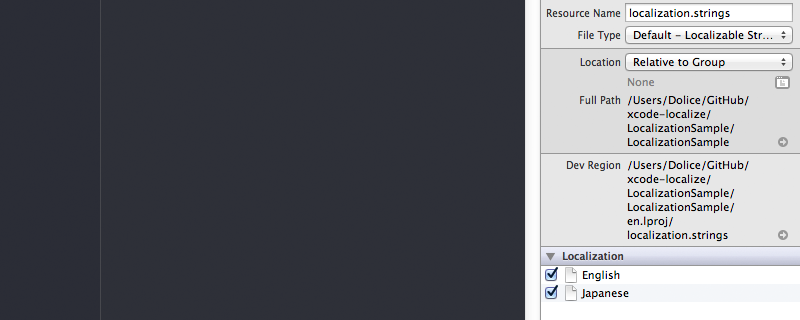
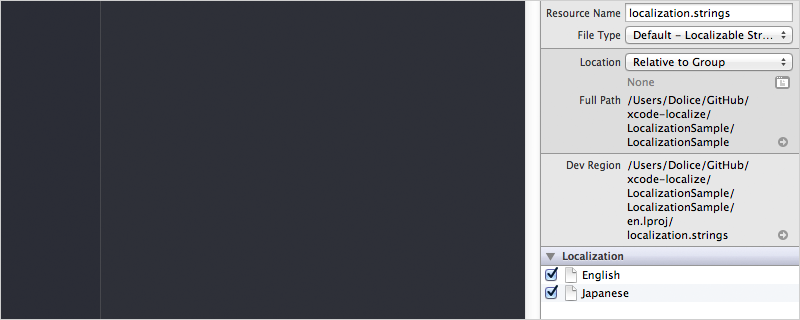
Site updated at 2013-04-17 03:37:56 UTC

Changed region(s): [[0.9688, 0.9688, 1.0, 1.0], [0.0, 0.9688, 0.0312, 1.0], [0.0, 0.0, 0.0312, 0.0312]]

diff --git a/blog/2013/04/17/xcode-localize/index.html b/blog/2013/04/17/xcode-localize/index.html
@@ -101,43 +101,43 @@
 
 <h3>1. PROJECT -> info -> Localizationsの項目に Japaniese (jaを追加する)</h3>
 
-<p><img src="http://lab.dolice.net/images/article/localize/screenshot1.png" title="1. PROJECT -&gt; info -&gt; Localizationsの項目に Japaniese (jaを追加する)" alt="1. PROJECT -&gt; info -&gt; Localizationsの項目に Japaniese (jaを追加する)" /></p>
+<p><img src="/images/article/localize/screenshot1.png" title="1. PROJECT -&gt; info -&gt; Localizationsの項目に Japaniese (jaを追加する)" alt="1. PROJECT -&gt; info -&gt; Localizationsの項目に Japaniese (jaを追加する)" /></p>
 
 <h3>2. MainStoryboard.storyboardと InfoPlist.stringsにチェックを入れて Finishを選択</h3>
 
-<p><img src="/images/article/localize/screenshot2.png" title="2. MainStoryboard.storyboardと InfoPlist.stringsにチェックを入れて Finishを選択" alt="" /></p>
+<p><img src="/images/article/localize/screenshot2.png" title="2. MainStoryboard.storyboardと InfoPlist.stringsにチェックを入れて Finishを選択" alt="2. MainStoryboard.storyboardと InfoPlist.stringsにチェックを入れて Finishを選択" /></p>
 
 <h3>3. MainStoryboardが複製され、Japaniese/Englishの2つに分かれました</h3>
 
-<p><img src="http://lab.dolice.net/images/article/localize/screenshot3.png" title="3. MainStoryboardが複製され、Japaniese/Englishの2つに分かれました" alt="" /></p>
+<p><img src="/images/article/localize/screenshot3.png" title="3. MainStoryboardが複製され、Japaniese/Englishの2つに分かれました" alt="3. MainStoryboardが複製され、Japaniese/Englishの2つに分かれました" /></p>
 
 <h3>4. Strings Filesを新規作成します</h3>
 
-<p><img src="http://lab.dolice.net/images/article/localize/screenshot4.png" title="4. Strings Filesを新規作成します" alt="" /></p>
+<p><img src="/images/article/localize/screenshot4.png" title="4. Strings Filesを新規作成します" alt="4. Strings Filesを新規作成します" /></p>
 
 <h3>5. ファイル名を「Localizable.strings」にします</h3>
 
-<p><img src="http://lab.dolice.net/images/article/localize/screenshot5.png" title="5. ファイル名を「Localizable.strings」にします" alt="" /></p>
+<p><img src="/images/article/localize/screenshot5.png" title="5. ファイル名を「Localizable.strings」にします" alt="5. ファイル名を「Localizable.strings」にします" /></p>
 
 <h3>6. 作成した Localizable.stringsファイルを選択し、「Localize…」ボタンを押します</h3>
 
-<p><img src="http://lab.dolice.net/images/article/localize/screenshot6.png" title="6. 作成した Localizable.stringsファイルを選択し、「Localize…」ボタンを押します" alt="" /></p>
+<p><img src="/images/article/localize/screenshot6.png" title="6. 作成した Localizable.stringsファイルを選択し、「Localize…」ボタンを押します" alt="6. 作成した Localizable.stringsファイルを選択し、「Localize…」ボタンを押します" /></p>
 
 <h3>7. English/Japanieseの両方にチェックを入れます</h3>
 
-<p><img src="http://lab.dolice.net/images/article/localize/screenshot7.png" title="7. English/Japanieseの両方にチェックを入れます" alt="" /></p>
+<p><img src="/images/article/localize/screenshot7.png" title="7. English/Japanieseの両方にチェックを入れます" alt="7. English/Japanieseの両方にチェックを入れます" /></p>
 
 <h3>8. Localizable.stringsファイルに各国の単語を定義します</h3>
 
-<p><img src="http://lab.dolice.net/images/article/localize/screenshot8.png" title="8. Localizable.stringsファイルに各国の単語を定義します" alt="" /></p>
+<p><img src="/images/article/localize/screenshot8.png" title="8. Localizable.stringsファイルに各国の単語を定義します" alt="8. Localizable.stringsファイルに各国の単語を定義します" /></p>
 
 <h3>9. アプリ名とアプリアイコンの下に表示される名前を指定することも出来ます</h3>
 
-<p><img src="http://lab.dolice.net/images/article/localize/screenshot9.png" title="9. アプリ名とアプリアイコンの下に表示される名前を指定することも出来ます" alt="" /></p>
+<p><img src="/images/article/localize/screenshot9.png" title="9. アプリ名とアプリアイコンの下に表示される名前を指定することも出来ます" alt="9. アプリ名とアプリアイコンの下に表示される名前を指定することも出来ます" /></p>
 
 <h3>10. 「NSLocalizedStrings」にキーワードを指定すると、各国語に対応した単語が表示されます</h3>
 
-<p><img src="http://lab.dolice.net/images/article/localize/screenshot10.png" title="10. 「NSLocalizedStrings」にキーワードを指定すると、各国語に対応した単語が表示されます" alt="" /></p>
+<p><img src="/images/article/localize/screenshot10.png" title="10. 「NSLocalizedStrings」にキーワードを指定すると、各国語に対応した単語が表示されます" alt="10. 「NSLocalizedStrings」にキーワードを指定すると、各国語に対応した単語が表示されます" /></p>
 
 <h2>ソースコード</h2>
 

diff --git a/index.html b/index.html
@@ -109,43 +109,43 @@
 
 <h3>1. PROJECT -> info -> Localizationsの項目に Japaniese (jaを追加する)</h3>
 
-<p><img src="http://lab.dolice.net/images/article/localize/screenshot1.png" title="1. PROJECT -&gt; info -&gt; Localizationsの項目に Japaniese (jaを追加する)" alt="1. PROJECT -&gt; info -&gt; Localizationsの項目に Japaniese (jaを追加する)" /></p>
+<p><img src="/images/article/localize/screenshot1.png" title="1. PROJECT -&gt; info -&gt; Localizationsの項目に Japaniese (jaを追加する)" alt="1. PROJECT -&gt; info -&gt; Localizationsの項目に Japaniese (jaを追加する)" /></p>
 
 <h3>2. MainStoryboard.storyboardと InfoPlist.stringsにチェックを入れて Finishを選択</h3>
 
-<p><img src="/images/article/localize/screenshot2.png" title="2. MainStoryboard.storyboardと InfoPlist.stringsにチェックを入れて Finishを選択" alt="" /></p>
+<p><img src="/images/article/localize/screenshot2.png" title="2. MainStoryboard.storyboardと InfoPlist.stringsにチェックを入れて Finishを選択" alt="2. MainStoryboard.storyboardと InfoPlist.stringsにチェックを入れて Finishを選択" /></p>
 
 <h3>3. MainStoryboardが複製され、Japaniese/Englishの2つに分かれました</h3>
 
-<p><img src="http://lab.dolice.net/images/article/localize/screenshot3.png" title="3. MainStoryboardが複製され、Japaniese/Englishの2つに分かれました" alt="" /></p>
+<p><img src="/images/article/localize/screenshot3.png" title="3. MainStoryboardが複製され、Japaniese/Englishの2つに分かれました" alt="3. MainStoryboardが複製され、Japaniese/Englishの2つに分かれました" /></p>
 
 <h3>4. Strings Filesを新規作成します</h3>
 
-<p><img src="http://lab.dolice.net/images/article/localize/screenshot4.png" title="4. Strings Filesを新規作成します" alt="" /></p>
+<p><img src="/images/article/localize/screenshot4.png" title="4. Strings Filesを新規作成します" alt="4. Strings Filesを新規作成します" /></p>
 
 <h3>5. ファイル名を「Localizable.strings」にします</h3>
 
-<p><img src="http://lab.dolice.net/images/article/localize/screenshot5.png" title="5. ファイル名を「Localizable.strings」にします" alt="" /></p>
+<p><img src="/images/article/localize/screenshot5.png" title="5. ファイル名を「Localizable.strings」にします" alt="5. ファイル名を「Localizable.strings」にします" /></p>
 
 <h3>6. 作成した Localizable.stringsファイルを選択し、「Localize…」ボタンを押します</h3>
 
-<p><img src="http://lab.dolice.net/images/article/localize/screenshot6.png" title="6. 作成した Localizable.stringsファイルを選択し、「Localize…」ボタンを押します" alt="" /></p>
+<p><img src="/images/article/localize/screenshot6.png" title="6. 作成した Localizable.stringsファイルを選択し、「Localize…」ボタンを押します" alt="6. 作成した Localizable.stringsファイルを選択し、「Localize…」ボタンを押します" /></p>
 
 <h3>7. English/Japanieseの両方にチェックを入れます</h3>
 
-<p><img src="http://lab.dolice.net/images/article/localize/screenshot7.png" title="7. English/Japanieseの両方にチェックを入れます" alt="" /></p>
+<p><img src="/images/article/localize/screenshot7.png" title="7. English/Japanieseの両方にチェックを入れます" alt="7. English/Japanieseの両方にチェックを入れます" /></p>
 
 <h3>8. Localizable.stringsファイルに各国の単語を定義します</h3>
 
-<p><img src="http://lab.dolice.net/images/article/localize/screenshot8.png" title="8. Localizable.stringsファイルに各国の単語を定義します" alt="" /></p>
+<p><img src="/images/article/localize/screenshot8.png" title="8. Localizable.stringsファイルに各国の単語を定義します" alt="8. Localizable.stringsファイルに各国の単語を定義します" /></p>
 
 <h3>9. アプリ名とアプリアイコンの下に表示される名前を指定することも出来ます</h3>
 
-<p><img src="http://lab.dolice.net/images/article/localize/screenshot9.png" title="9. アプリ名とアプリアイコンの下に表示される名前を指定することも出来ます" alt="" /></p>
+<p><img src="/images/article/localize/screenshot9.png" title="9. アプリ名とアプリアイコンの下に表示される名前を指定することも出来ます" alt="9. アプリ名とアプリアイコンの下に表示される名前を指定することも出来ます" /></p>
 
 <h3>10. 「NSLocalizedStrings」にキーワードを指定すると、各国語に対応した単語が表示されます</h3>
 
-<p><img src="http://lab.dolice.net/images/article/localize/screenshot10.png" title="10. 「NSLocalizedStrings」にキーワードを指定すると、各国語に対応した単語が表示されます" alt="" /></p>
+<p><img src="/images/article/localize/screenshot10.png" title="10. 「NSLocalizedStrings」にキーワードを指定すると、各国語に対応した単語が表示されます" alt="10. 「NSLocalizedStrings」にキーワードを指定すると、各国語に対応した単語が表示されます" /></p>
 
 <h2>ソースコード</h2>
 
